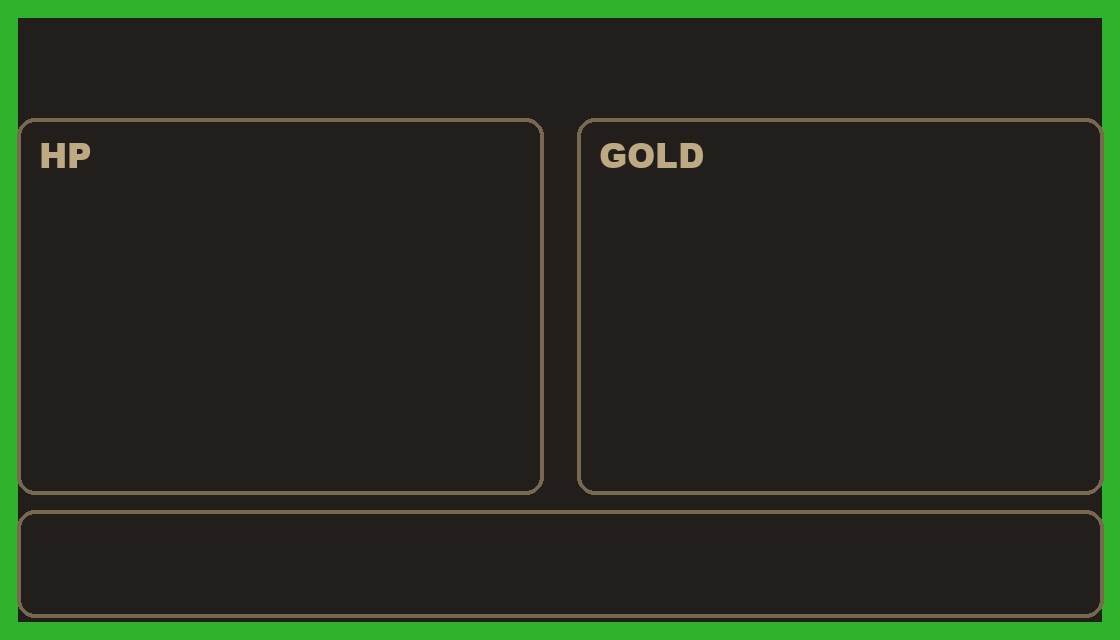
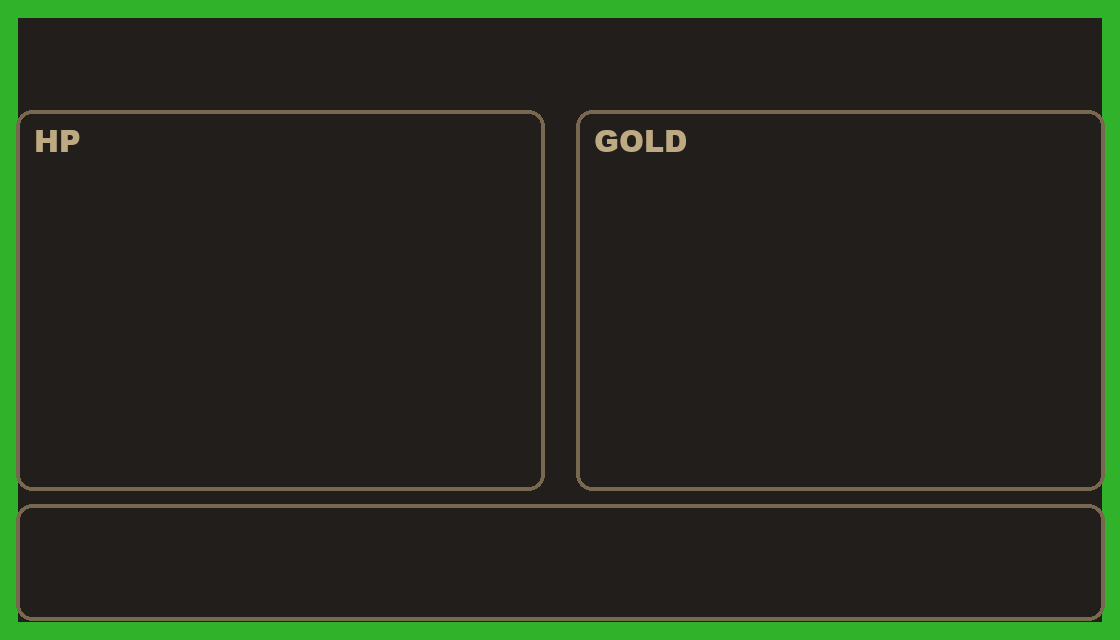
v0.1: fixes from the first test in Tabletop Simulator
The save loads (a description had gone into the Locked field), non-square
tiles have the right size, bot commands travel as one JSON string, player
boards are bigger and simpler. Checked live: all pieces on the table and a
bot game with no script error.

Changed region(s): [[0.0, 0.75, 1.0, 0.8125], [0.0, 0.1562, 1.0, 0.2812], [0.0, 0.9375, 1.0, 0.9688]]

diff --git a/tts/build.py b/tts/build.py
@@ -348,7 +348,7 @@ def right_of(seat):
 # Player area (u, v). Row 1: the bots lay their hand open here; the player board on the right.
 # Row 2: character, Abilities, equipment, one-use items, hidden objective.
 HAND_U, HAND_V = [-11.6 + 2.3 * k for k in range(9)], 4.4
-BOARD_UV = (10.8, 4.6)
+BOARD_UV = (11.05, 4.6)   # 6.3 x 3.6 player board: on the felt, clear of the 9th hand slot and of row 2
 ROW2_V = 8.0
 CHAR_U, ABIL_U, EQUIP_U, USE_U, OBJ_U = -11.6, [-9.3, -7.0, -4.7], [-2.0, 0.3, 2.6], [5.0, 7.3, 9.6], 12.0
 
@@ -436,21 +436,38 @@ def aid_img():
     im.save(OUT / "player-aid.png")
 
 
-# Player board: 1120 x 640 image, local coordinates x -1..1 (left to right) and z -0.571..0.571
-# (top to bottom). Button positions are written into the board's Lua from the same numbers.
+# Player board: a 6.3 x 3.6 tile (1120 x 640 image, Stretch on, even scale 1.8), kept inside the felt
+# (the table's rim hid the lower edge of a 4.0-deep board, 2026-10-13). The layout is drawn for a
+# 5.6 x 3.2 board in table units from its centre (x to the right, z down the image) and grows with K.
+# Measured on the live table: a font size of 700 draws text about 1 local unit high, and 1000 button
+# units are about 1.6 local units wide.
+PB_S = 1.8
+K = PB_S / 1.6
 PB_W, PB_H = 1120, 640
-PB_ZH = PB_H / PB_W
+
+
+def lp(x, z): return [round(x * K / PB_S, 4), round(z * K / PB_S, 4)]
+
+
+def bu(w): return int(round(w * K / PB_S * 625))    # table units -> button units
+def fs(h): return int(round(h * K / PB_S * 700))    # text height in table units -> font size
+
+
+BTN = [bu(0.5), bu(0.5), fs(0.36)]
 UI_POS = {
-    "title": (0.0, -0.47), "hp": (-0.5, -0.2), "gold": (0.5, -0.2),
-    "hp_btn": [(-0.86, 0.04), (-0.62, 0.04), (-0.38, 0.04), (-0.14, 0.04)],
-    "gold_btn": [(0.14, 0.04), (0.38, 0.04), (0.62, 0.04), (0.86, 0.04)],
-    "hp_full": (-0.5, 0.22), "max_btn": [(-0.83, 0.22), (-0.17, 0.22)],
-    "stat": [(-0.62, 0.43), (0.0, 0.43), (0.62, 0.43)],
-    "stat_btn": [[(-0.86, 0.43), (-0.38, 0.43)], [(-0.24, 0.43), (0.24, 0.43)], [(0.38, 0.43), (0.86, 0.43)]],
+    "zfix": 1,
+    "title": lp(0, -1.3), "title_font": fs(0.3),
+    "hp": lp(-1.4, -0.4), "gold": lp(1.4, -0.4), "num_font": fs(0.52),
+    "hp_btn": [lp(-2.47, -0.4), lp(-0.33, -0.4)], "gold_btn": [lp(0.33, -0.4), lp(2.47, -0.4)],
+    "btn": BTN,
+    "max_btn": [lp(-2.3, 0.5), lp(-0.5, 0.5)], "hp_full": lp(-1.4, 0.5), "small": [bu(0.8), bu(0.4), fs(0.22)],
+    "stat": [lp(-1.85, 1.2), lp(0.0, 1.2), lp(1.85, 1.2)], "stat_font": fs(0.28),
+    "stat_btn": [[lp(-2.55, 1.2), lp(-1.15, 1.2)], [lp(-0.7, 1.2), lp(0.7, 1.2)], [lp(1.15, 1.2), lp(2.55, 1.2)]],
+    "stat_size": [bu(0.42), bu(0.42), fs(0.3)],
 }
 
 
-def lpx(x, z): return ((x + 1) / 2 * PB_W, (z / PB_ZH + 1) / 2 * PB_H)
+def wpx(x, z): return ((x / 5.6 + 0.5) * PB_W, (z / 3.2 + 0.5) * PB_H)   # 5.6 x 3.2 design units
 
 
 def board_img(color):
@@ -458,12 +475,12 @@ def board_img(color):
     d = ImageDraw.Draw(im)
     col = tuple(int(c * 255) for c in RGB[color])
     d.rectangle((0, 0, PB_W - 1, PB_H - 1), outline=col, width=18)
-    for (x0, z0, x1, z1, title) in [(-0.97, -0.36, -0.03, 0.31, "HP"), (0.03, -0.36, 0.97, 0.31, "GOLD"),
-                                    (-0.97, 0.34, 0.97, 0.53, "")]:
-        a, b = lpx(x0, z0), lpx(x1, z1)
-        d.rounded_rectangle((a[0], a[1], b[0], b[1]), 18, outline=(120, 104, 80), width=4)
+    for (x0, z0, x1, z1, title) in [(-2.72, -1.05, -0.08, 0.85, "HP"), (0.08, -1.05, 2.72, 0.85, "GOLD"),
+                                    (-2.72, 0.92, 2.72, 1.5, "")]:
+        a, b2 = wpx(x0, z0), wpx(x1, z1)
+        d.rounded_rectangle((a[0], a[1], b2[0], b2[1]), 16, outline=(120, 104, 80), width=4)
         if title:
-            d.text((a[0] + 22, a[1] + 12), title, font=f(BLACK, 34), fill=(190, 170, 130))
+            d.text((a[0] + 18, a[1] + 8), title, font=f(BLACK, 30), fill=(190, 170, 130))
     im.save(OUT / f"board-{color.lower()}.png")
 
 
@@ -512,9 +529,9 @@ def guid():
     return f"{0xc00000 + guid_n:06x}"
 
 
-def tr(x, z, rot_y=180.0, face_down=False, s=1.0, y=1.5, sy=1.0):
+def tr(x, z, rot_y=180.0, face_down=False, s=1.0, y=1.5, sy=1.0, sz=None):
     return {"posX": x, "posY": y, "posZ": z, "rotX": 0.0, "rotY": rot_y,
-            "rotZ": 180.0 if face_down else 0.0, "scaleX": s, "scaleY": sy, "scaleZ": s}
+            "rotZ": 180.0 if face_down else 0.0, "scaleX": s, "scaleY": sy, "scaleZ": s if sz is None else sz}
 
 
 def base(name, transform, nick="", desc="", **kw):
@@ -571,12 +588,17 @@ def deck(ids, pos, nick, face_up=False):
                 ContainedObjects=cards, SidewaysCard=False, HideWhenFaceDown=True)
 
 
-def tile(fn, transform, nick, locked=True, circle=False, thick=0.1, **kw):
-    # Stretch=False: the tile keeps the image's aspect ratio.
-    return base("Custom_Tile", transform, nick, Locked=locked,
+def tile(fn, transform, nick, desc="", locked=True, circle=False, thick=0.1, **kw):
+    # Measured live (2026-10-13): with Stretch off TTS draws every tile square, 2 x scale units each
+    # way; with Stretch on the tile takes the image's shape, 2 x scale deep and 2 x scale x
+    # (width / height of the image) wide. Square images use Stretch off, the others Stretch on with an
+    # even scale = depth / 2.
+    im = Image.open(OUT / fn)
+    stretch = im.size[0] != im.size[1]
+    return base("Custom_Tile", transform, nick, desc, Locked=locked,
                 CustomImage={"ImageURL": url(fn), "ImageSecondaryURL": "", "ImageScalar": 1.0, "WidthScale": 0.0,
                              "CustomTile": {"Type": 2 if circle else 0, "Thickness": thick,
-                                            "Stackable": False, "Stretch": False}}, **kw)
+                                            "Stackable": False, "Stretch": stretch}}, **kw)
 
 
 objs, snaps = [], []
@@ -602,7 +624,7 @@ for (r, c), kind in sorted(BOARD.items()):
                      thick=0.12, Tags=["tile", f"ring{ring}"], GMNotes=f"{ring}:{kind}"))
     snap((x, z), 180.0, ["tile"])
 assert len([o for o in objs if "tile" in o.get("Tags", [])]) == 49
-objs.append(tile("level-track.png", tr(TRACK["x"], TRACK["z"], 180.0, s=9.1, y=1.0), "Level track", thick=0.05))
+objs.append(tile("level-track.png", tr(TRACK["x"], TRACK["z"], 180.0, s=1.0, y=1.0), "Level track", thick=0.05))
 for lv in range(1, 11):
     snap((round(TRACK["x"] + (lv - 5.5) * TRACK["dx"], 2), TRACK["z"]), None, ["marker"])
 
@@ -624,7 +646,7 @@ for seat in SEATS:
                                      "rotZ": 0.0, "scaleX": 11.8, "scaleY": 9.2, "scaleZ": 4.9},
                      FogColor=color, Locked=True))
     bx, bz = local(seat, *BOARD_UV)
-    objs.append(tile(f"board-{color.lower()}.png", tr(bx, bz, cr, s=2.8, y=1.05), f"{color} board",
+    objs.append(tile(f"board-{color.lower()}.png", tr(bx, bz, cr, s=PB_S, y=1.05), f"{color} board",
                      "HP, max HP, gold and stats. Click the buttons.", thick=0.1,
                      LuaScript=PB_LUA, LuaScriptState=json.dumps({"title": color}), Tags=["pboard"], GMNotes=color))
     camp = CAMP_OF[color]
@@ -667,7 +689,7 @@ assert sum(counted.values()) == 132, counted   # §2: 132 cards in total
 for p in list(PILES.values()) + OFFER + EXTRA + PLAYED + HELPER:
     snap(p, 180.0)
 
-objs.append(tile("player-aid.png", tr(*AID_POS, 180.0, s=5.0, y=1.02), "Player aid", "Turn and fight summary", thick=0.05))
+objs.append(tile("player-aid.png", tr(*AID_POS, 180.0, s=2.5, y=1.02), "Player aid", "Turn and fight summary", thick=0.05))
 TOKEN_DATA = {}
 for k, (x, z) in BAGS.items():
     tok = tile(f"damage-{k[1]}.png", tr(0, 0, 180.0, s=0.33, y=1.5), f"Damage {k[1]}", locked=False, circle=True,
@@ -710,6 +732,29 @@ XML = ('<VerticalLayout height="{h}" width="130" rectAlignment="UpperLeft" offse
        + '  <VerticalLayout padding="12 12 10 10" spacing="4">\n'
        + "\n".join(f'    <Text id="kbStatus{i}" fontSize="19" color="#F5ECD7" alignment="MiddleLeft"></Text>' for i in range(1, 5))
        + '\n  </VerticalLayout>\n</Panel>')
+
+FIELD_TYPES = {"GUID": str, "Name": str, "Nickname": str, "Description": str, "GMNotes": str, "Locked": bool,
+               "Grid": bool, "Snap": bool, "Tooltip": bool, "Hands": bool, "LuaScript": str, "LuaScriptState": str,
+               "XmlUI": str, "Tags": list, "CardID": int, "DeckIDs": list, "SidewaysCard": bool,
+               "HideWhenFaceDown": bool, "ContainedObjects": list, "FogColor": str}
+
+
+def check_types(o, where):
+    for k, t in FIELD_TYPES.items():
+        if k in o:
+            assert isinstance(o[k], t) and not (t is int and isinstance(o[k], bool)), \
+                f"{where} {o.get('Nickname') or o['Name']}: {k} should be {t.__name__}, is {o[k]!r}"
+    for k in ("posX", "posY", "posZ", "rotX", "rotY", "rotZ", "scaleX", "scaleY", "scaleZ"):
+        assert isinstance(o["Transform"][k], (int, float)) and not isinstance(o["Transform"][k], bool), (where, k)
+    for c in o.get("ContainedObjects", []):
+        check_types(c, where + " >")
+
+
+for o in objs:
+    check_types(o, "object")
+for k, v in TOKEN_DATA.items():
+    check_types(v, "token")
+assert len({o["GUID"] for o in objs}) == len(objs), "duplicate GUIDs"
 
 now = time.localtime()
 save = {

diff --git a/tests/check_tts_script.py b/tests/check_tts_script.py
@@ -64,16 +64,16 @@ def run(seed, mode):
     g.play()
     rec = Recorder()
     director = Director(rec, 1.0, camera=True)
-    steps = [dict(msg={"op": "reset"}, wait=2.0)]
+    steps = [dict(msg={"json": json.dumps({"op": "reset"})}, wait=2.0)]
     for e in g.events:
         before = len(rec.sent)
         director.show(e)
         new = rec.sent[before:]
         for k, m in enumerate(new):
-            steps.append(dict(msg=m, wait=duration(e) if k == len(new) - 1 else 0.0))
+            steps.append(dict(msg={"json": json.dumps(m, ensure_ascii=False)}, wait=duration(e) if k == len(new) - 1 else 0.0))
         if not new:
             steps.append(dict(msg=None, wait=duration(e)))
-    steps.append(dict(msg={"op": "check"}, wait=3.0))
+    steps.append(dict(msg={"json": json.dumps({"op": "check"})}, wait=3.0))
     expect = dict(hand={p.color: p.hand for p in g.players},
                   items={p.color: p.equipment + p.consumables for p in g.players},
                   used={p.color: 3 - len(p.ready) for p in g.players})

diff --git a/tts/preview.py b/tts/preview.py
@@ -56,8 +56,9 @@ for o in save["ObjectStates"]:
     name = o["Name"]
     if name == "Custom_Tile":
         im = load(o["CustomImage"]["ImageURL"])
-        w = 2 * s
-        h = w * im.size[1] / im.size[0]
+        stretch = o["CustomImage"]["CustomTile"]["Stretch"]
+        h = 2 * t["scaleZ"]            # Stretch on: the image's shape, 2 x scale deep; off: square
+        w = h * im.size[0] / im.size[1] if stretch else 2 * s
         paste(im, x, z, w, h, ry)
     elif name in ("Card", "Deck"):
         top = o if name == "Card" else o["ContainedObjects"][-1 if abs(t["rotZ"]) > 90 else 0]

diff --git a/bots/play.py b/bots/play.py
@@ -153,7 +153,9 @@ class TTS:
             print(f"   TTS Lua error: {msg.get('error')}")
 
     def send(self, data):
-        payload = json.dumps({"messageID": 2, "customMessage": data}).encode()
+        # One JSON string per command: TTS passes nested lists of a custom message to Lua as
+        # C# objects, so global.lua decodes the string itself.
+        payload = json.dumps({"messageID": 2, "customMessage": {"json": json.dumps(data, ensure_ascii=False)}}).encode()
         s = socket.create_connection(("127.0.0.1", 39999), timeout=3)
         s.sendall(payload)
         s.close()

diff --git a/CHANGELOG.md b/CHANGELOG.md
@@ -4,6 +4,8 @@ All notable changes to the Kingbound prototype. Each version is also a GitHub re
 
 ## Unreleased
 
+## v0.1 (2026-10-13)
+
 ### Tabletop Simulator prototype
 
 - `tts/build.py` builds the save from `Kingbound-GDD.md`, the same way as The Limit: text-only card faces drawn with Pillow on two sheets (4000×3360 and 4000×1680 px), a different back for each deck, 49 tiles, the level track, player boards, tokens and the save with its Lua.
@@ -33,6 +35,15 @@ All notable changes to the Kingbound prototype. Each version is also a GitHub re
 - Bot rulings where the rules are silent: a Healing Potion in the bot's own fight is drunk in step 2, not as an answer to sabotage ("You can't answer until the next round", §6.2); the Champion's 10-damage cap counts the damage put on it in a round and Hex removes tokens after that; a helper plays only its own cards and its boost; bots never trade; the Rogue uses Pickpocket at the start of its turn or right after moving; Training Manual and Elixir are used as soon as they are taken; with 3 equipment items a new one only replaces the weakest if it is better; after Ambush! an event is resolved as a normal draw.
 - Bots sabotage the Trial, a leader about to reach level 7 or more, or any fight when they hold the Spoiler objective, and keep their sabotage for the Trial once someone else is at level 9. Help costs 1, 2 or 3 gold by tier (1 less for a Sellsword) or the enemy's loot, and nobody helps a leader who is close to winning.
 
-### Not checked yet
+### Fixed after the first test in Tabletop Simulator
 
-- The save has not been opened in Tabletop Simulator yet: TTS was closed while this was built. The fake TTS catches script errors, not looks. v0.1 follows the first check in TTS.
+- The save would not load: the player boards and the player aid had their description written into the "Locked" field, which must be true or false. `build.py` now checks the type of every field before writing the save.
+- The level track, the player aid and the player boards were drawn square. TTS draws a tile square when Stretch is off and in the image's shape when it is on (2 × scale deep, 2 × scale × width / height wide); non-square tiles now use Stretch with an even scale.
+- Bot commands did not find their cards: TTS hands the nested lists of a message to Lua as C# objects. Each command now travels as one JSON string that the table script decodes.
+- Player boards are bigger (6.3 × 3.6) and simpler: − and + beside HP and gold, FULL and MAX − / + under HP, − and + for each stat. They now sit fully on the felt.
+- Checked in TTS: the save loads, every piece is on the table (132 cards, 49 tiles, 4 pawns, 4 level markers, 4 player boards, the die), and the short bot game ran at double speed with no script error and all 132 cards still on the table.
+
+## Next
+
+- Record the gameplay video with `bots/play.py`.
+- To share the save, upload the images with TTS's Cloud Manager and fill in `tts/cloud_urls.json`.
